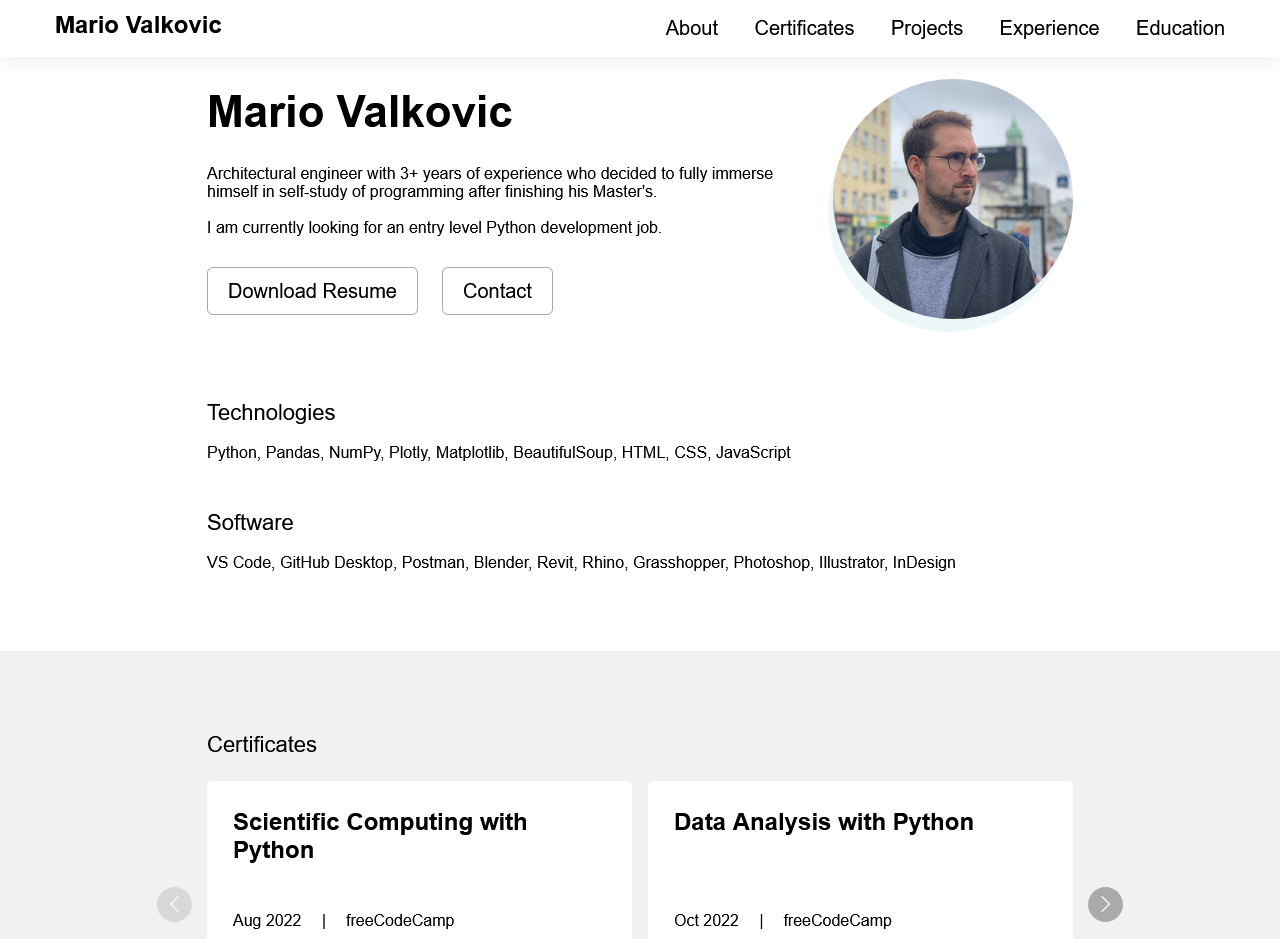
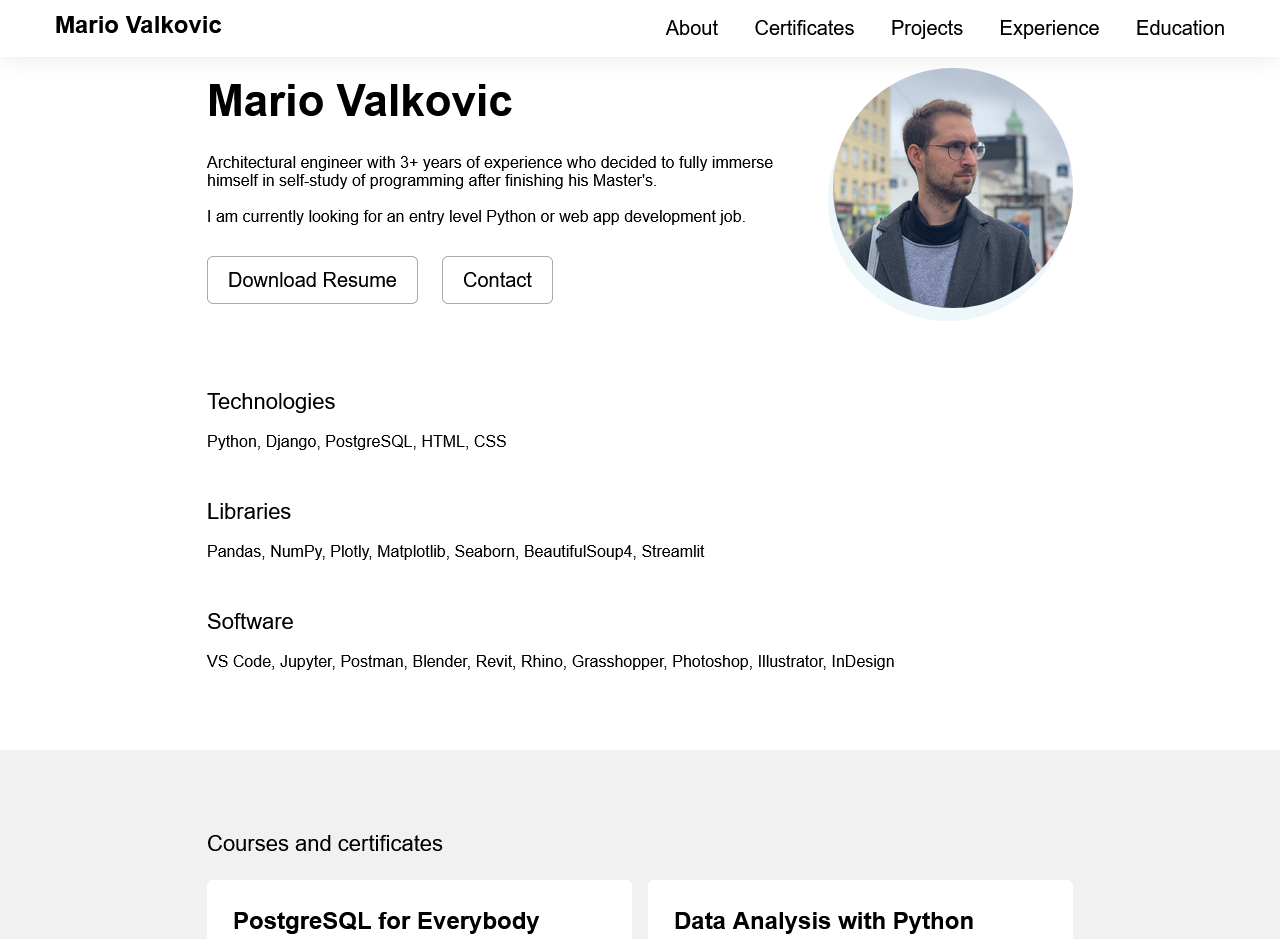
.

diff --git a/index.html b/index.html
@@ -264,7 +264,55 @@
                       <li><a href="https://nbviewer.org/github/mariovalkovic/spotify_data_exploration/blob/main/spotify_data_exploration.ipynb"><img src="images/link.svg"></a></li>
                       <li>Jupyter, Python, Pandas, Plotly</li>
                     </ul>
-                    <p>Analysis of my 3.5-years Spotify listening history from JSON dataset.
+                    <p>Analysis of my 3.5-years Spotify listening history from JSON dataset
+                    </p>
+                  </div>
+                </div>
+              </div>
+            </div>
+
+            <div class="portfolioCard">
+              <div class="row g-4 align-items-center">
+                <div class="col-md-auto">
+                  <div class="portfolioImgCol">
+                    <a href="http://valkovicmario.eu.pythonanywhere.com/"><img src="images/todolist.png" alt="..."></a>
+                  </div>
+                </div>
+                <div class="col-md">
+                  <div class="portfolioContentCol">
+                    <h4 class="lgTitle"><a href="http://valkovicmario.eu.pythonanywhere.com/">To Do List</a></h4>
+                    <ul class="portfolioOption">
+                      <li><a href="https://github.com/mariovalkovic/todo_list_django"><img src="images/github.svg"></a></li>
+                      <li><a href="http://valkovicmario.eu.pythonanywhere.com/"><img src="images/link.svg"></a></li>
+                      <li>Django, Python, HTML, CSS</li>
+                    </ul>
+                    <p>Basic Django app performing CRUD operations and login (CBVs)
+                    <br>Based on <a href="https://www.youtube.com/watch?v=llbtoQTt4qw">tutorial</a> by Dennis Ivy
+                    <br>Deployed on <em>pythonanywhere</em>
+                    </p>
+                  </div>
+                </div>
+              </div>
+            </div>
+
+            <div class="portfolioCard">
+              <div class="row g-4 align-items-center">
+                <div class="col-md-auto">
+                  <div class="portfolioImgCol">
+                    <a href="http://mariovalkovic.pythonanywhere.com/"><img src="images/managementsystem.png" alt="..."></a>
+                  </div>
+                </div>
+                <div class="col-md">
+                  <div class="portfolioContentCol">
+                    <h4 class="lgTitle"><a href="http://mariovalkovic.pythonanywhere.com/">Student Management System</a></h4>
+                    <ul class="portfolioOption">
+                      <li><a href="https://github.com/mariovalkovic/management_system_django"><img src="images/github.svg"></a></li>
+                      <li><a href="http://mariovalkovic.pythonanywhere.com/"><img src="images/link.svg"></a></li>
+                      <li>Django, Python, HTML, CSS</li>
+                    </ul>
+                    <p>Basic Django app performing CRUD operations (FBVs)
+                    <br>Based on <a href="https://www.youtube.com/watch?v=EUMpUUXKvP0">tutorial</a> by Bob's Programming Academy
+                    <br>Deployed on <em>pythonanywhere</em>
                     </p>
                   </div>
                 </div>
